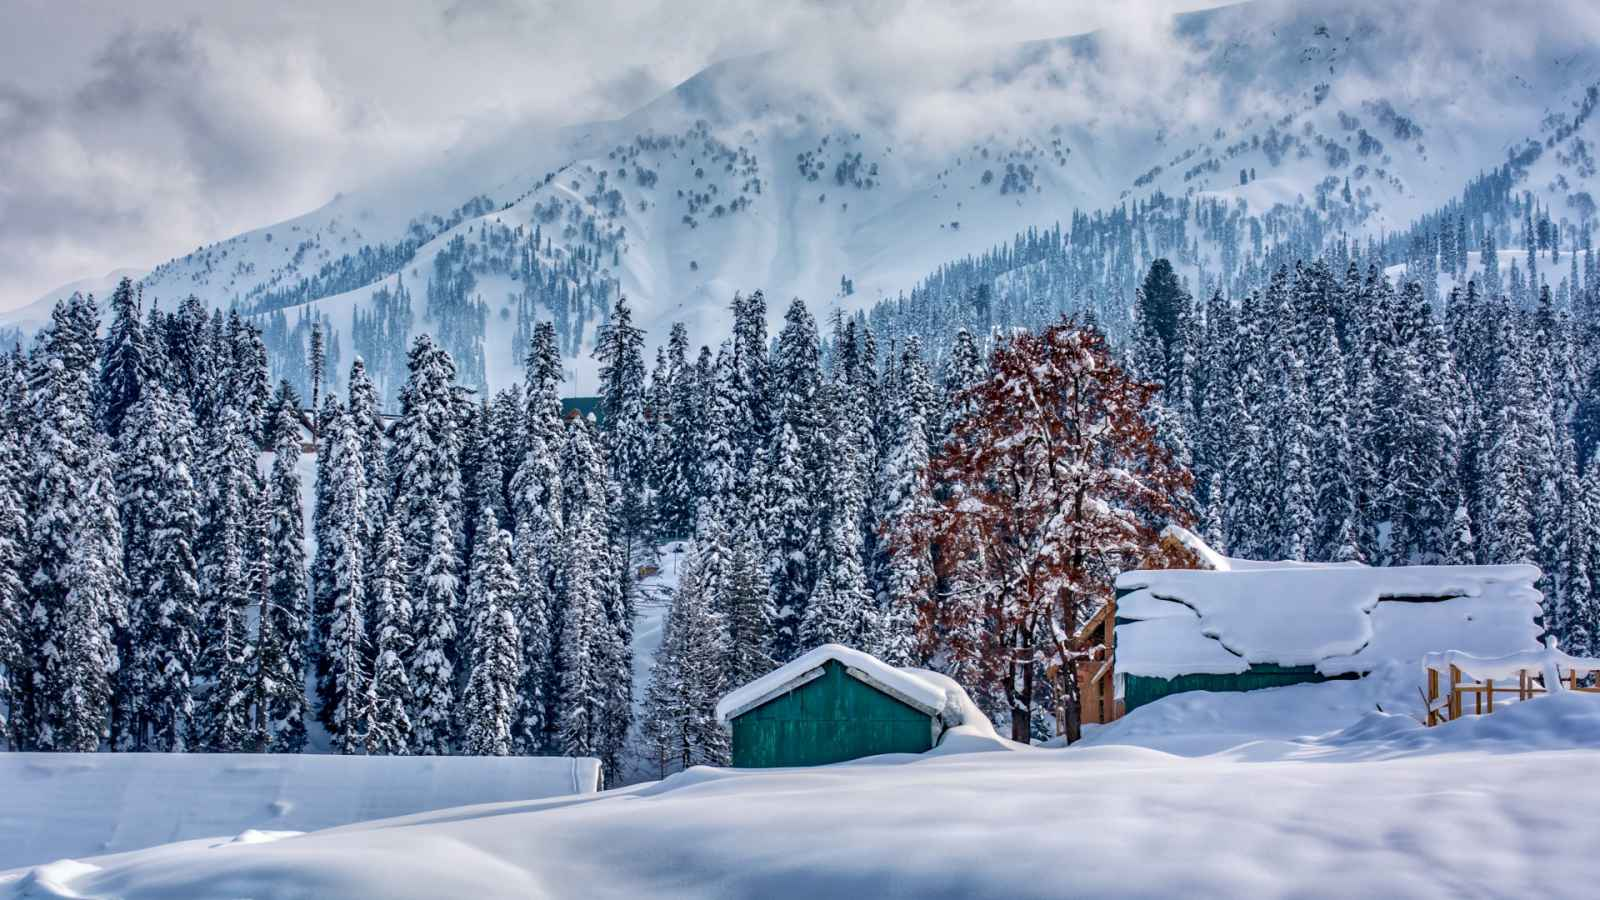
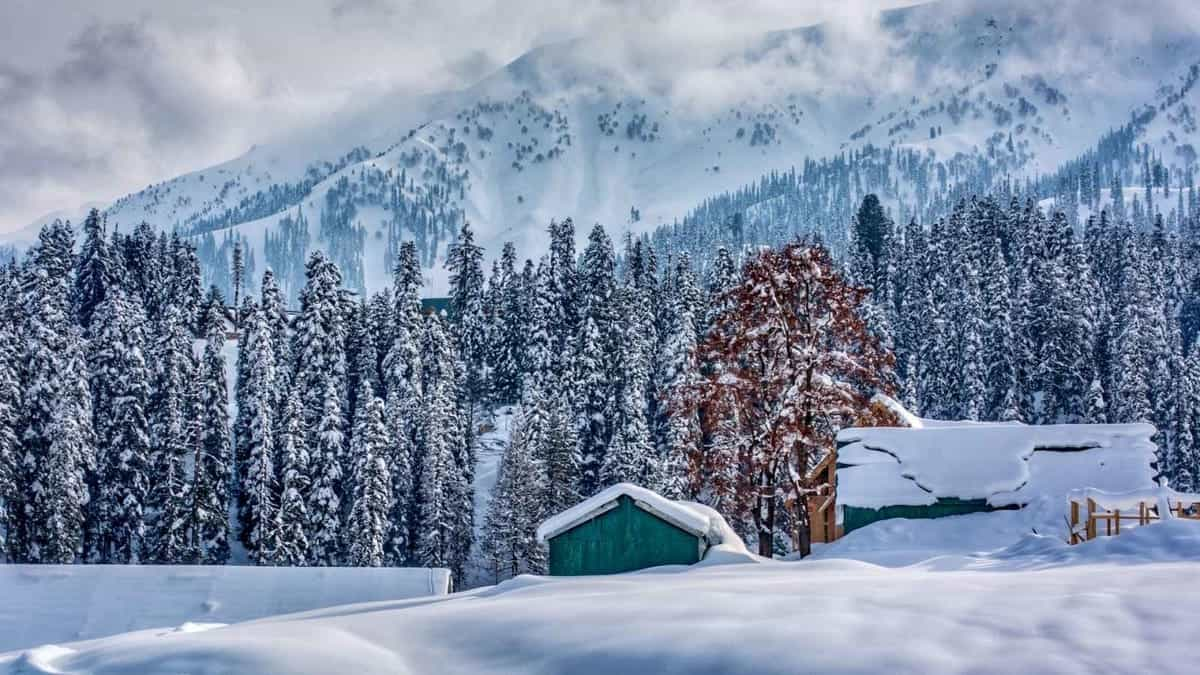
image optimized

diff --git a/src/home/components/packages/packages.component.scss b/src/home/components/packages/packages.component.scss
@@ -2,6 +2,8 @@
 .packages-content {
   min-height: 500px;
   background-image: url(/assets/images/0amsterdam.jpg);
+  background-repeat: no-repeat;
+  background-size: 100% 500px;
   margin: 30px 0px;
   overflow: auto;
 }
